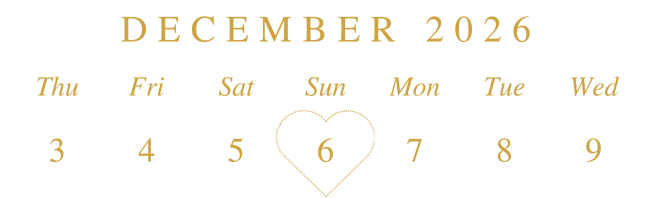
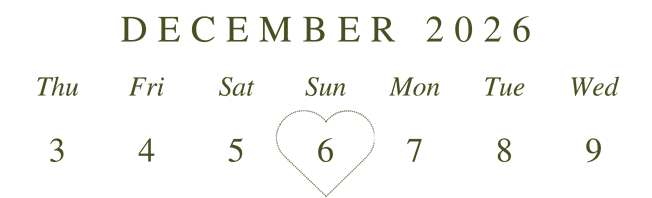
Updates

diff --git a/src/components/Invitation/Invitation.jsx b/src/components/Invitation/Invitation.jsx
@@ -3,14 +3,14 @@ import HTMLFlipBook from "react-pageflip"
 import {useEffect, useRef, useState} from "react";
 import FadeContent from "@/components/FadeContent/FadeContent";
 import cover from "@/assets/cover.png";
-import cover2 from "@/assets/bookcover.jpeg";
+import cover2 from "@/assets/bookcover.png";
 import corner from "@/assets/corner.png";
 import wax from "@/assets/wax.png";
 import bookpage from "@/assets/bookpage.jpeg";
 // import venue from "@/assets/venue.jpg";
 import venue from "@/assets/venue2.png";
 import std from "@/assets/datesavethedate.png";
-import { fleur, greatVibes, unifraktur } from "@/utils/fonts";
+import { greatVibes, merriweather } from "@/utils/fonts";
 import clsx from "clsx";
 import TextType from "../TextType/TextType";
 
@@ -80,7 +80,7 @@ const Invitation = () => {
                         </div>
                         <div className="relative w-full h-full flex items-center mx-auto max-w-[200px] justify-center">
                             <FadeContent startOnVisible={true} delay={700}>
-                                <p className={clsx(unifraktur.className, "text-5xl text-center text-[#cea342]")}>You're Invited</p>
+                                <p className={clsx(greatVibes.className, "text-5xl text-center text-primary")}>You're Invited</p>
                             </FadeContent>
                         </div>
                     </div>
@@ -96,16 +96,16 @@ const Invitation = () => {
                                 text={["Save the Date"]}
                                 showCursor={false}
                                 startOnVisible={true}
-                                textColors={["#cea342"]}
+                                textColors={["#484f20"]}
                                 initialDelay={400}
                                 typingSpeed={50}
-                                className={clsx(unifraktur.className, "text-3xl ")}
+                                className={clsx(greatVibes.className, "text-4xl ")}
                             />
                             <TextType
                                 text={["for the Wedding of"]}
                                 showCursor={false}
                                 startOnVisible={true}
-                                textColors={["#cea342"]}
+                                textColors={["#484f20"]}
                                 initialDelay={1400}
                                 typingSpeed={50}
                                 className={clsx(greatVibes.className, "text-lg ")}
@@ -113,25 +113,25 @@ const Invitation = () => {
                             <FadeContent startOnVisible={true} delay={3200} initialYPosition={20} className="w-full">
                                 <div className="flex gap-2 max-w-[calc(100%-60px)] mx-auto mt-4 items-center justify-center">
                                     <div className="flex flex-col gap-4 text-center">
-                                            <div className="flex items-center justify-center relative rounded-full aspect-square mx-auto w-[120px] bg-[#cea342]">
-                                                <p className="text-black">Image here</p>
+                                            <div className="flex items-center justify-center relative rounded-full aspect-square mx-auto w-[120px] bg-primary">
+                                                <p className="text-white">Image here</p>
                                             </div>
                                         </div>
                                     <div className="flex flex-col gap-4 text-center">
-                                            <div className="flex items-center justify-center relative rounded-full aspect-square mx-auto w-[120px] bg-[#cea342]">
-                                                <p className="text-black">Image here</p>
+                                            <div className="flex items-center justify-center relative rounded-full aspect-square mx-auto w-[120px] bg-primary">
+                                                <p className="text-white">Image here</p>
                                             </div>   
                                     </div>
                                 </div>
                             </FadeContent>
                             <TextType
-                                text={["Rolyne & Michael"]}
+                                text={["  Rolyne & Michael  "]}
                                 showCursor={false}
                                 startOnVisible={true}
-                                textColors={["#cea342"]}
+                                textColors={["#484f20"]}
                                 initialDelay={3400}
                                 typingSpeed={50}
-                                className={clsx(unifraktur.className, "text-lg mt-4 border-t border-b border-[#cea342] tracking-widest")}
+                                className={clsx(merriweather.className, "text-[14px] leading-[20px] mt-4 mb-0 uppercase border-t border-b border-[#484f20] tracking")}
                             />
                             <FadeContent delay={5000} initialOpacity={0}>
                                 <div className="mx-auto w-full max-w-[240px] mt-4">
@@ -142,10 +142,10 @@ const Invitation = () => {
                                 text={["formal invitation to follow"]}
                                 showCursor={false}
                                 startOnVisible={true}
-                                textColors={["#cea342"]}
+                                textColors={["#484f20"]}
                                 initialDelay={5400}
                                 typingSpeed={30}
-                                className={clsx(greatVibes.className, "text-base text-[#cea342] mt-4")}
+                                className={clsx(greatVibes.className, "text-base text-primary mt-4")}
                             />
                         </div>
                     </div>
@@ -157,7 +157,7 @@ const Invitation = () => {
                             <img src={bookpage.src} className="w-full h-full opacity-20" />
                         </div>
                         <FadeContent initialOpacity={0} delay={300}>
-                            <p className={`${unifraktur.className} text-4xl text-[#cea342] text-center mt-24`}>The Venue</p>
+                            <p className={`${greatVibes.className} text-4xl text-primary text-center mt-24`}>The Venue</p>
                         </FadeContent>
                         <FadeContent initialOpacity={0} delay={800} initialYPosition={20}>
                             <div className="flex flex-col gap-4 max-w-[600px] px-10 pt-4 pb-4 mx-auto">
@@ -169,15 +169,15 @@ const Invitation = () => {
                                 text={["Blue Moon Los Ilustrados"]}
                                 showCursor={false}
                                 startOnVisible={true}
-                                textColors={["#cea342"]}
+                                textColors={["#484f20"]}
                                 initialDelay={1000}
                                 typingSpeed={50}
-                                className={clsx(unifraktur.className, "text-2xl text-[#cea342] text-center")}
+                                className={clsx(merriweather.className, "text-lg text-primary text-center")}
                             />
                             <FadeContent initialOpacity={0} delay={3000} initialYPosition={20}>
-                                <p className={clsx(greatVibes.className, 'text-sm text-gray-800 text-center mt-1')}>Santa Rosa - Tagaytay Road</p>
-                                <p className={clsx(greatVibes.className, 'text-sm text-gray-800 text-center')}>Silang Cavite 4118</p>
-                                <p className={clsx(greatVibes.className, 'text-sm text-gray-800 text-center')}>Philippines</p>
+                                <p className={clsx(merriweather.className, 'text-[10px] text-primary text-center')}>Santa Rosa - Tagaytay Road</p>
+                                <p className={clsx(merriweather.className, 'text-[10px] text-primary text-center')}>Silang Cavite 4118</p>
+                                <p className={clsx(merriweather.className, 'text-[10px] text-primary text-center')}>Philippines</p>
                             </FadeContent>
                         </div>
                     </div>
@@ -189,7 +189,7 @@ const Invitation = () => {
                         <img src={corner.src} className="w-[100px] rotate-180 absolute bottom-1 right-1" />
                         <img src={wax.src} className="w-[50px] absolute -translate-x-1/2 left-1/2 top-4" />
                         <div className="relative w-full h-full flex flex-col items-center max-w-[200px] mx-auto justify-center">
-                            <p className={`${unifraktur.className} text-center text-[#cea342] text-5xl lg:text-7xl`}>RSVP Form here</p>
+                            <p className={`${greatVibes.className} text-center text-primary text-5xl lg:text-7xl`}>RSVP Form here</p>
                         </div>
                     </div>
                 </HTMLFlipBook>

diff --git a/src/components/BGMusic/BGMusic.jsx b/src/components/BGMusic/BGMusic.jsx
@@ -1,33 +1,40 @@
 "use client";
+import { greatVibes } from "@/utils/fonts";
+import clsx from "clsx";
 import { useRef, useState } from "react";
 import { GiMusicalNotes } from "react-icons/gi";
 
 const BGMusic = () => {
-    const [playing, setPlaying] = useState(false);
-    const audioRef = useRef(null)
+  const [playing, setPlaying] = useState(false);
+  const audioRef = useRef(null);
 
-    const handlePlay = () => {
-        if(audioRef.current){
-            if (audioRef.current?.paused) {
-                audioRef.current?.play();
-                setPlaying(true);
-            } else {
-                audioRef.current?.pause();
-                setPlaying(false);
-            }
-        }
-        
+  const handlePlay = () => {
+    if (audioRef.current) {
+      if (audioRef.current?.paused) {
+        audioRef.current?.play();
+        setPlaying(true);
+      } else {
+        audioRef.current?.pause();
+        setPlaying(false);
+      }
     }
-    return (
-        <div className="container relative mx-auto flex items-center justify-center -mt-4">
-            <audio ref={audioRef} loop>
-                <source src="./bgmusic.mp3" type="audio/mpeg" />
-            </audio>
-            <button onClick={handlePlay} className="flex gap-2 items-center justify-center text-black cursor-pointer hover:bg-amber-100 bg-white px-4 py-2 rounded-full">
-               Now, let the music unfold
-            </button>
-        </div>
-    )
-}
+  };
+  return (
+    <div className="container relative mx-auto flex items-center justify-center -mt-4">
+      <audio ref={audioRef} loop>
+        <source src="./bgmusic.mp3" type="audio/mpeg" />
+      </audio>
+      <button
+        onClick={handlePlay}
+        className={clsx(
+          greatVibes.className,
+          "text-xl text-primary flex gap-2 items-center justify-center text-black cursor-pointer hover:bg-amber-100 bg-white px-4 py-2 rounded-full"
+        )}
+      >
+        Now, let the music unfold
+      </button>
+    </div>
+  );
+};
 
 export default BGMusic;

diff --git a/src/utils/fonts.js b/src/utils/fonts.js
@@ -1,38 +1,14 @@
-import { Great_Vibes, UnifrakturMaguntia, Montserrat, Poppins, Fleur_De_Leah, Updock } from "next/font/google";
+import { Great_Vibes, Merriweather } from "next/font/google";
 
 const greatVibes = Great_Vibes({
   variable: "--font-great-vibes",
   subsets: ["latin"],
   weight: "400",
 });
-
-const poppins = Poppins({
-  variable: "--font-poppins",
-  subsets: ["latin"],
-  weight: ["100", "200", "300", "400", "500", "600", "700", "800", "900"],
-});
-
-const fleur = Fleur_De_Leah({
-    variable: "--font-fleur",
-    subsets: ["latin"],
-    weight: "400"
-})
-
-const unifraktur = UnifrakturMaguntia({
-  variable: "--font-unifraktur",
+const merriweather = Merriweather({
+  variable: "--font-merriweather",
   subsets: ["latin"],
   weight: "400"
-})
-
-const updock = Updock({
-  variable: "--font-updock",
-  subsets: ["latin"],
-  weight: "400"
-})
-
-const montserrat = Montserrat({
-  variable: "--font-montserrat",
-  subsets: ["latin"],
 });
 
-export { greatVibes, fleur, unifraktur, montserrat, updock, poppins };
+export { greatVibes, merriweather };

diff --git a/src/app/globals.css b/src/app/globals.css
@@ -20,6 +20,9 @@
 }
 
 @theme {
+  --color-primary: #484f20;
+  --color-secondary: #cea342;
+
   --animate-gradient: gradient 8s linear infinite;
   @keyframes gradient {
     0% { background-position: 0% 50% }
@@ -39,6 +42,6 @@ html {
   overflow: hidden;
 }
 
-.stf__block, .stf__wrapper {
-  overflow: auto;
+.stf__block {
+  overflow: hidden;
 }
